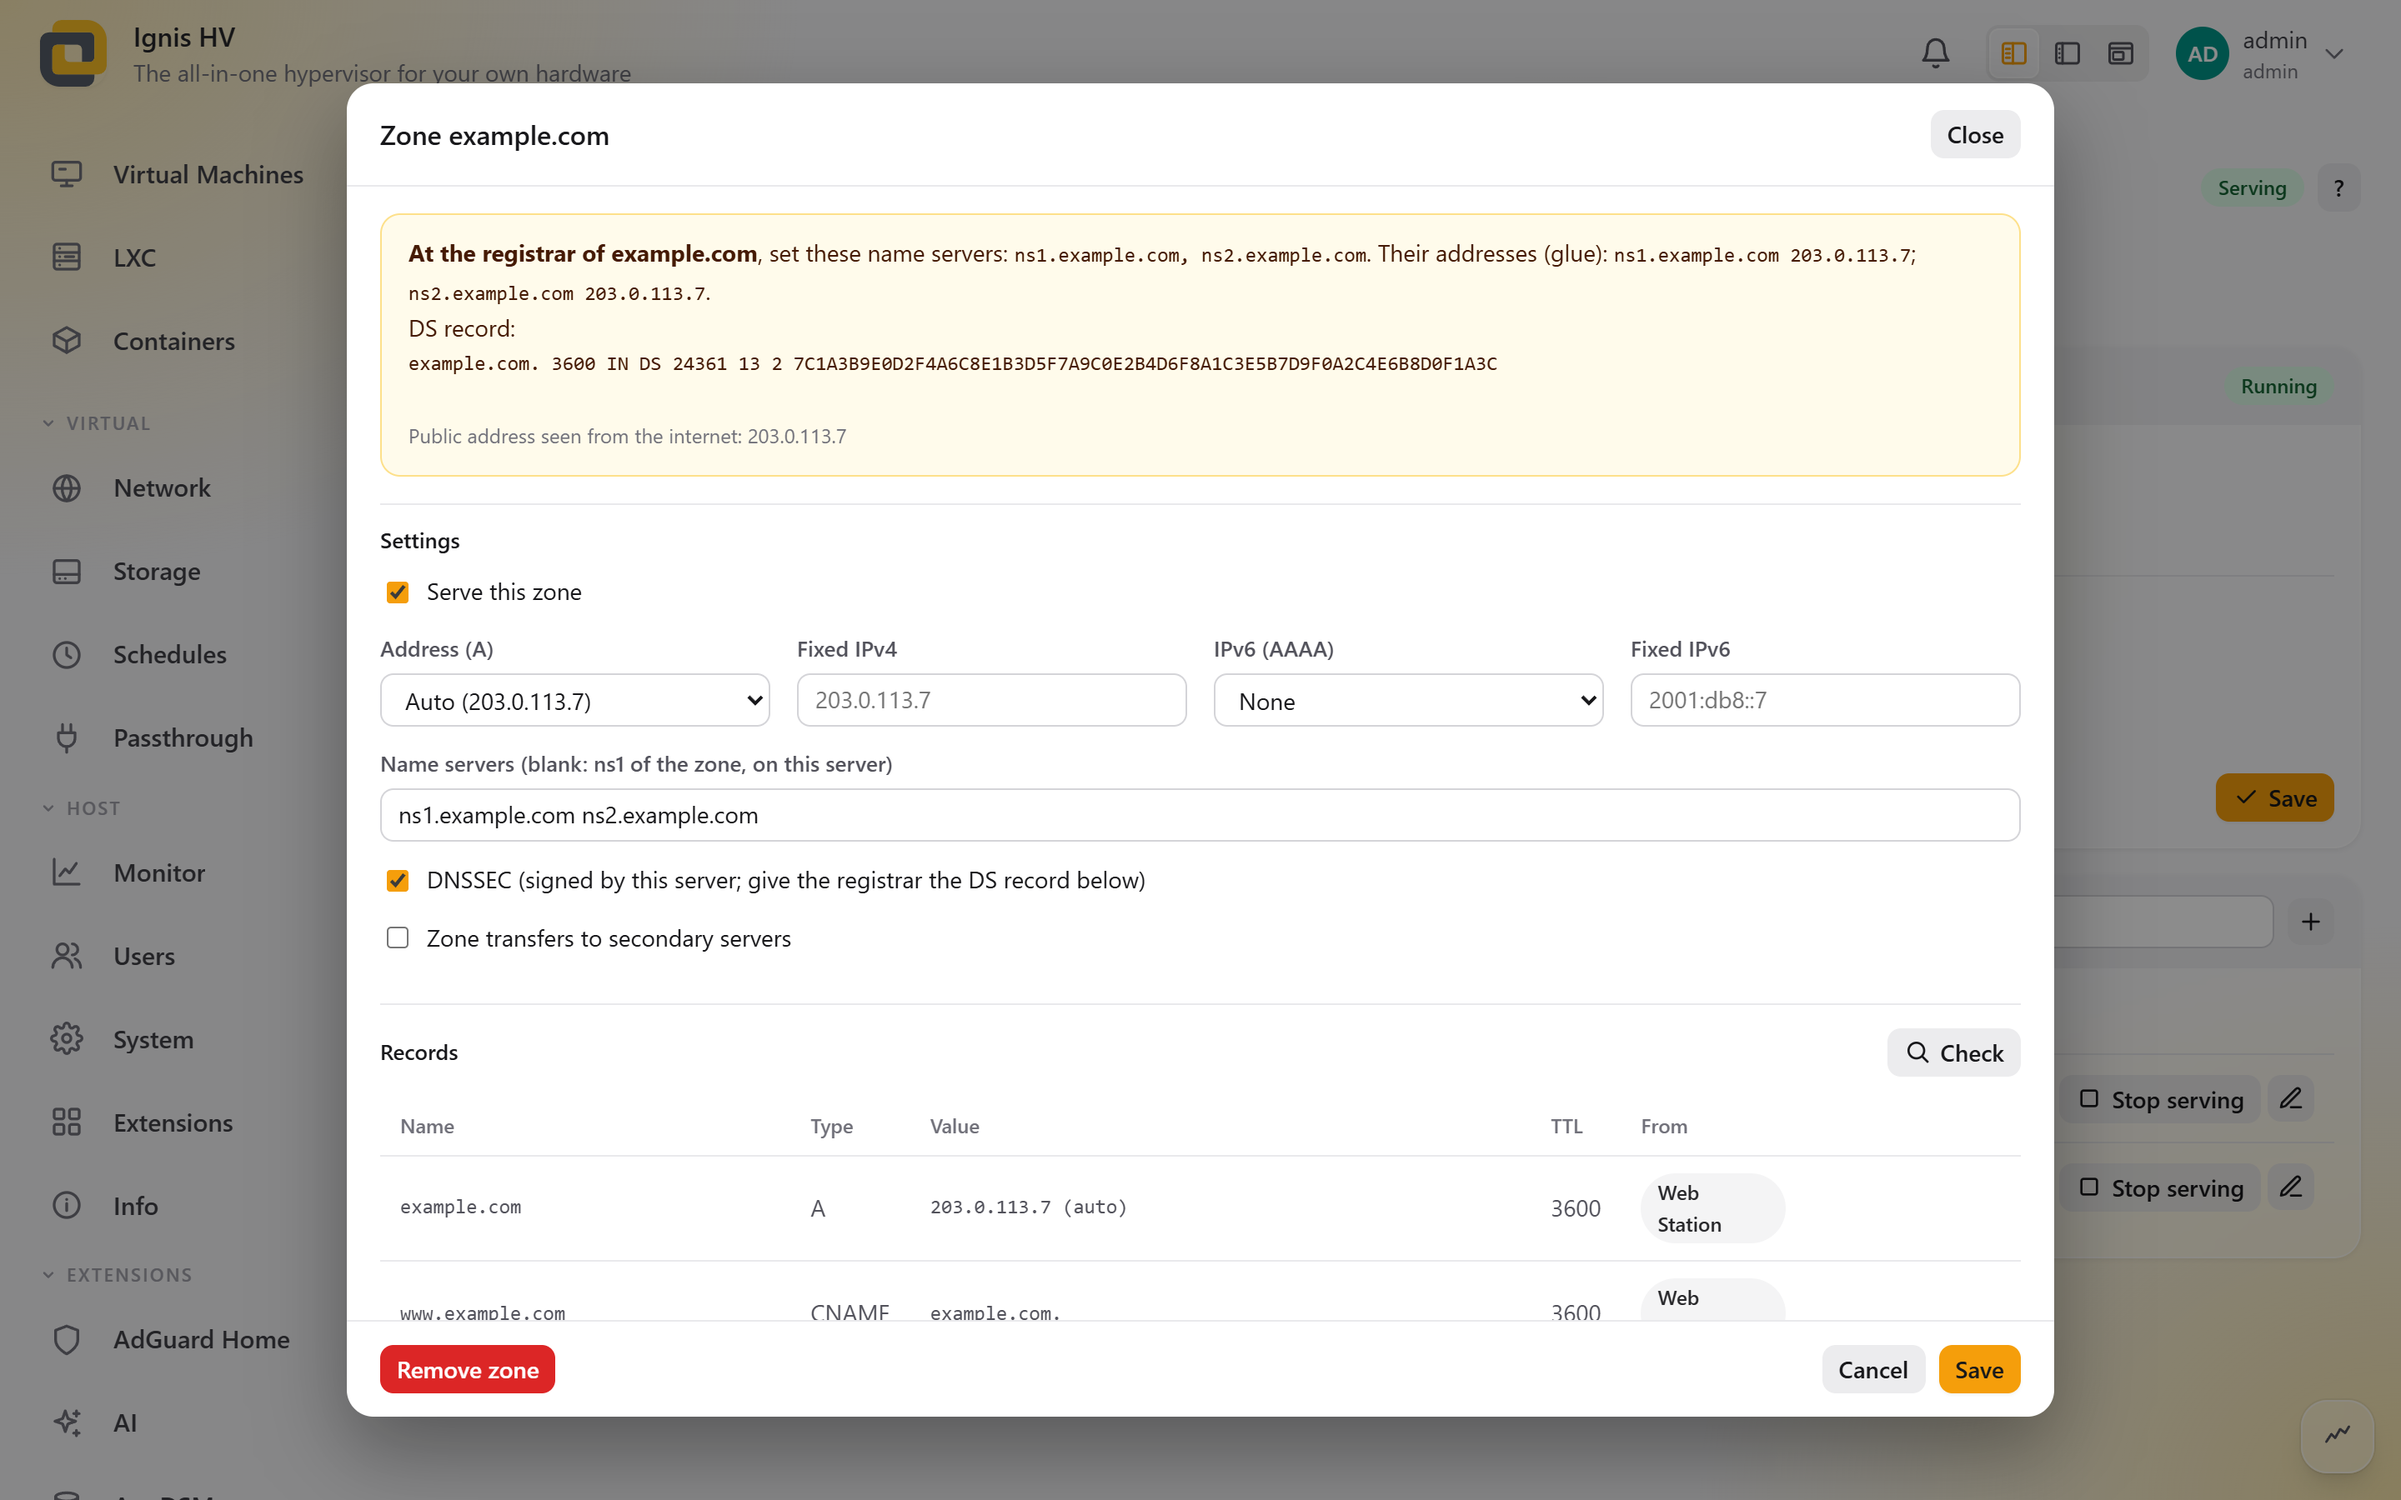
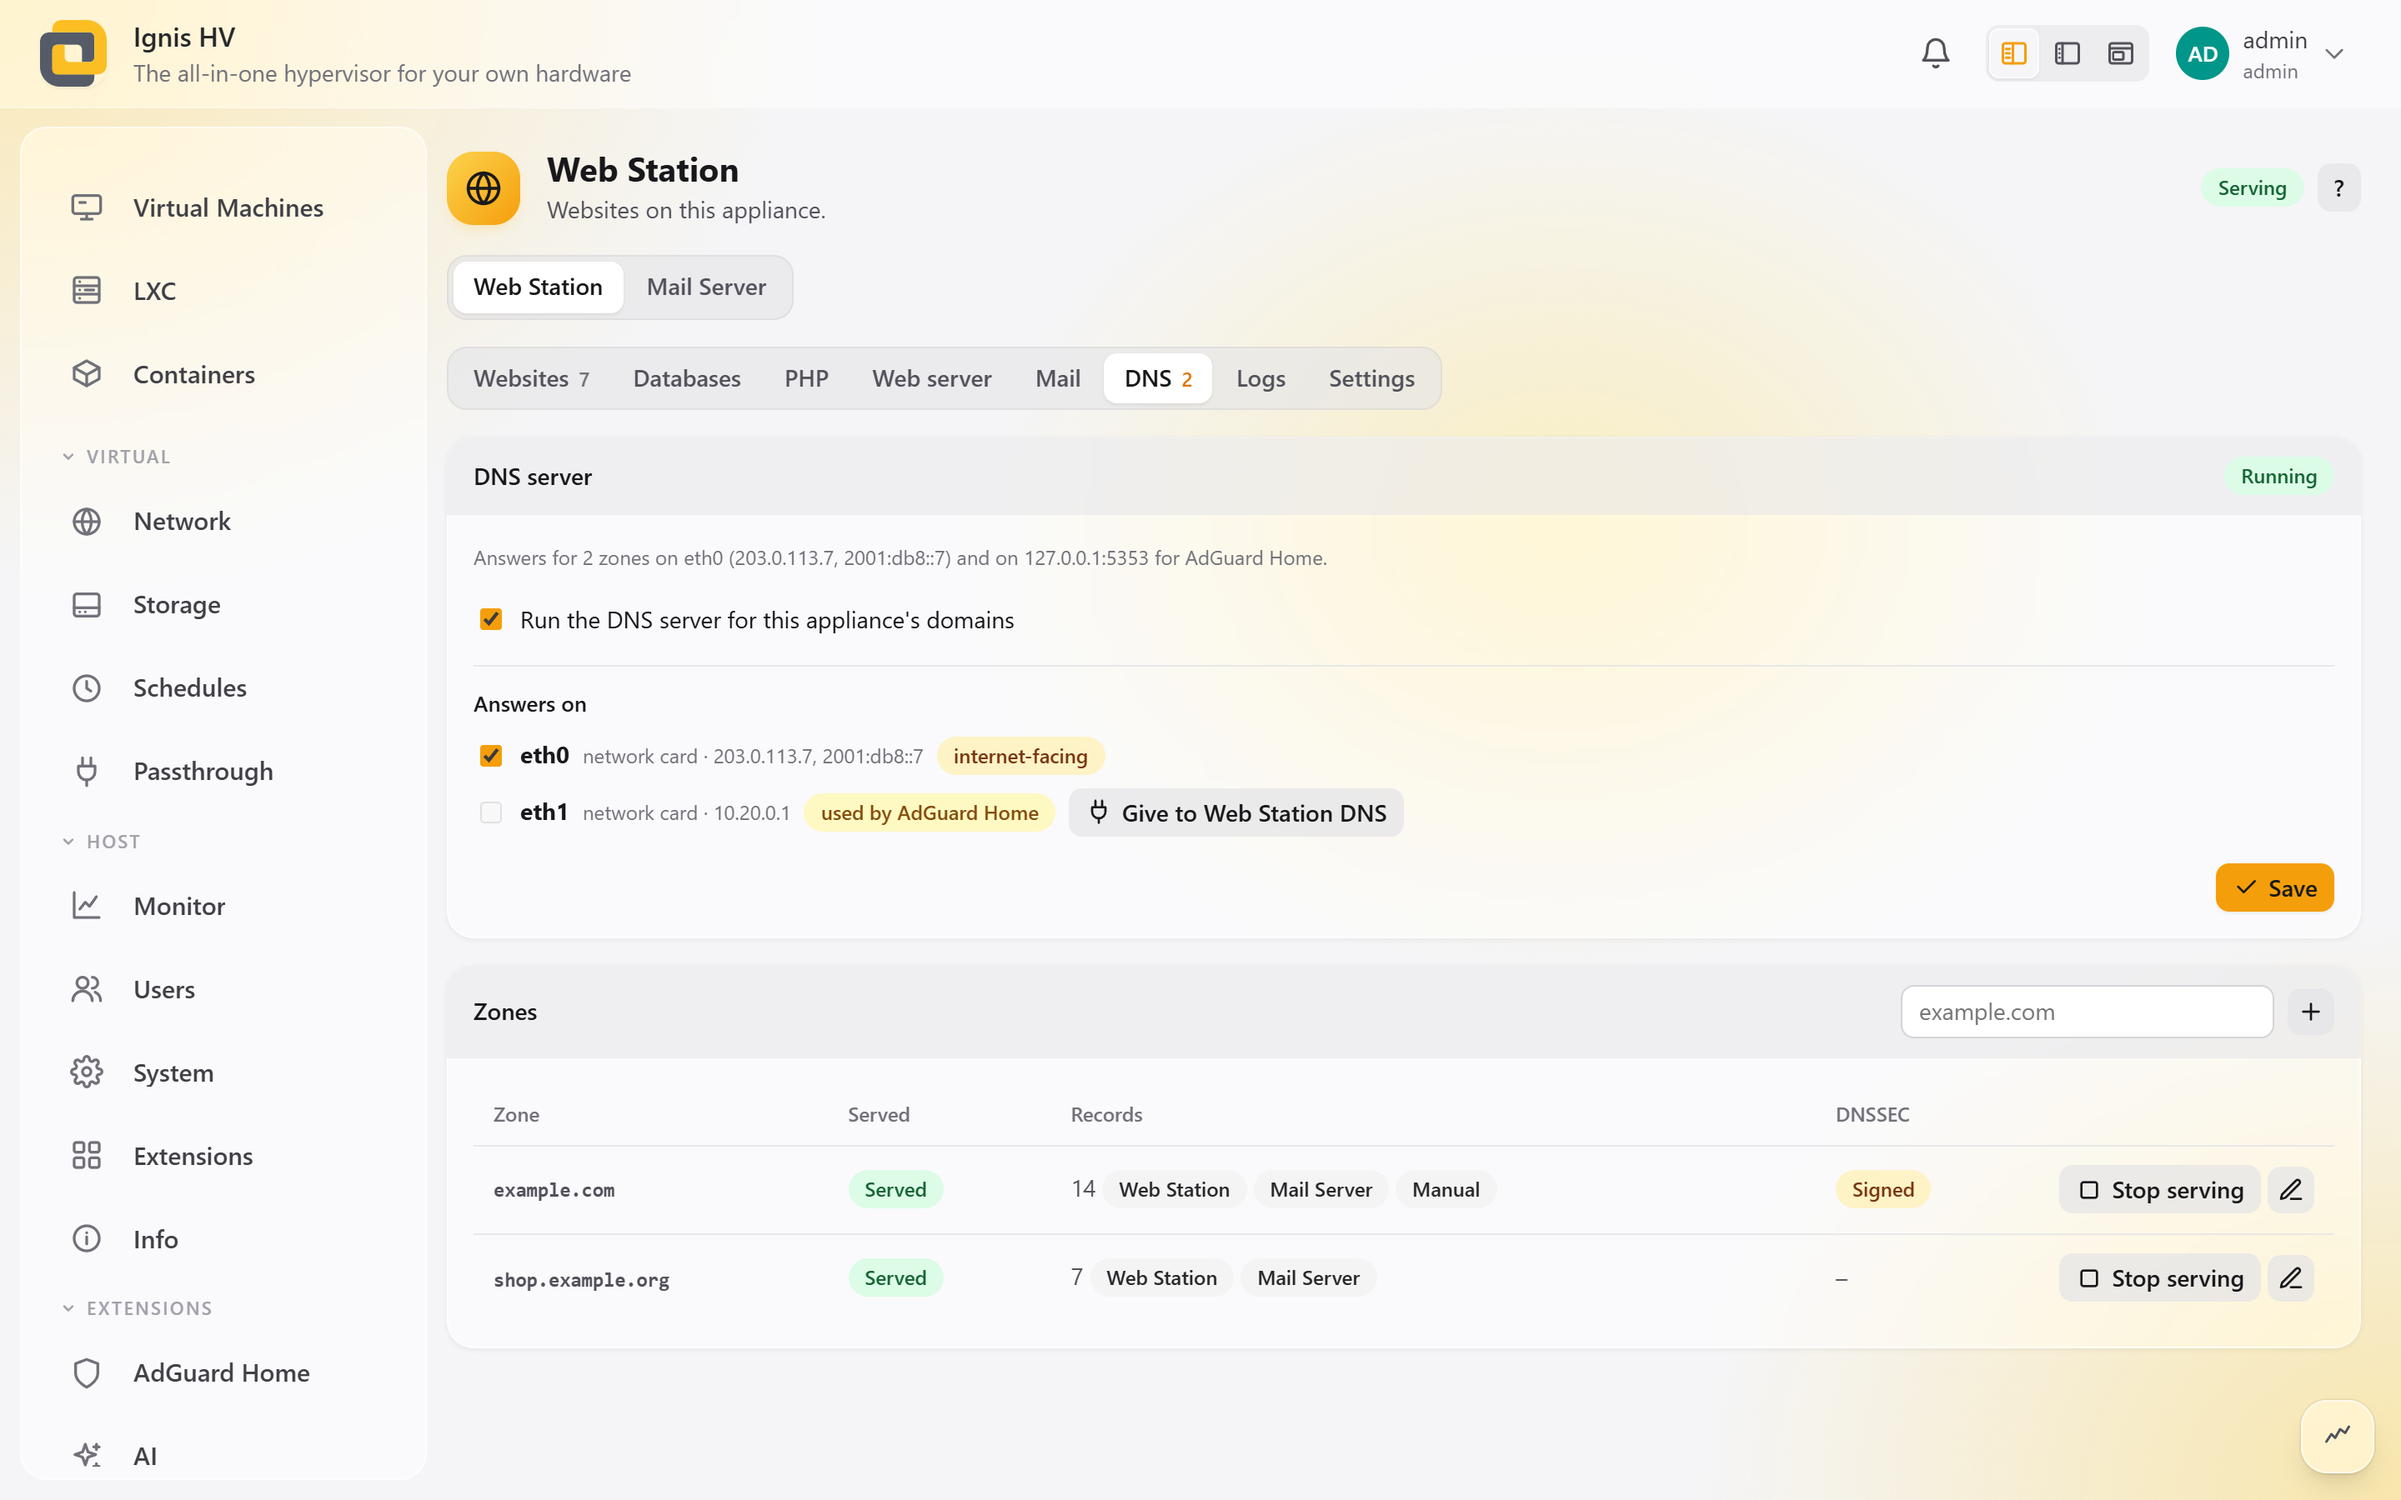
readme: shortlinks, time format, restart in the account menu, permissions; screenshots of 2026-11-18
Main pages, Extensions and Web & Mail (Web Station, Mail Server, DNS) retaken on the current interface.

diff --git a/README.md b/README.md
@@ -63,7 +63,7 @@ Ignis turns a PC or server into a small, dedicated host for virtual machines, co
 
 ### 🔐 Sign-in and security
 
-* **Users and roles**: admin, operator and viewer accounts, each limited to the machines and pages you choose
+* **Users and roles**: admin, operator and viewer accounts, each limited to the machines and pages you choose. Every permission says what it allows, and which of your apps it opens
 * **Two-factor sign-in**: with an authenticator app, recovery codes for emergencies and codes by email. A browser you trust can skip the code for 30 days
 * **Screen lock**: Ignis locks itself after the time you choose, and you unlock it with your password
 
@@ -133,14 +133,14 @@ Ignis keeps two things apart: **the system**, which each update replaces as a wh
 | **Schedules** | Timed start, shutdown, snapshot, backup, container and data check tasks, and the tasks your apps offer: website and mail backups, WordPress updates, downloads only at night, cameras on and off, and more |
 | **Passthrough** | Graphics cards, PCI and USB devices your machines can use |
 | **Monitor** | The host right now, its **History** over time, and **Storage Health** |
-| **Users** | Accounts, roles, and who sees which machines and pages |
-| **System** | The host's name, network, time, CPU (governor, turbo and clock limits) and fans, linked hosts, the smart home interface, email, services, updates and a terminal |
+| **Users** | Accounts, roles and their permissions, and who sees which machines and pages |
+| **System** | The host's name, network, time, CPU (governor, turbo and clock limits) and fans, linked hosts, the smart home interface, email, services, updates, a terminal, and **shortlinks**: addresses of your own such as `http://<ip>/download` that open a page straight away |
 | **Extensions** | Install, update, turn on, restart and remove apps, see which apps need each other and what each package includes |
 | **Info** | What this host supports, and a report to copy into a bug report |
 
 Every page has a **?** button with help for that page.
 
-Pick the look you like from the account menu: a light or dark mode, an accent colour, a wallpaper (northern lights, mountains, waves, dunes and more, or a picture of your own) and either the classic layout with a sidebar or a **desktop** where every page opens in a window of its own, with a taskbar. Settings are switches, and a short note at the bottom of the screen confirms what you saved.
+Pick the look you like from the account menu: a light or dark mode, an accent colour, a wallpaper (northern lights, mountains, waves, dunes and more, or a picture of your own) and either the classic layout with a sidebar or a **desktop** where every page opens in a window of its own, with a taskbar. Your language and a 12- or 24-hour clock are saved with your account. The account menu is also where you restart or shut down Ignis, if your account may. Settings are switches, and a short note at the bottom of the screen confirms what you saved. The address bar shows just Ignis's address, whatever page you are on.
 
 ### 📸 A look inside
 
@@ -174,7 +174,7 @@ Pick the look you like from the account menu: a light or dark mode, an accent co
     <td width="50%"><img alt="Drive: a folder of pictures as thumbnails" src="assets/screenshots/apps/drive.png"><br><sub><b>Drive</b>: your shared folders in the browser, with share links</sub></td>
   </tr>
   <tr>
-    <td width="50%"><img alt="Web Station: example.com with its docs and shop subdomains, each with its PHP version, certificate and buttons" src="assets/screenshots/apps/web.png"><br><sub><b>Web Station</b>: each website in a box with its controls, subdomains nested inside, PHP 8.3 to 8.5 and HTTPS per site</sub></td>
+    <td width="50%"><img alt="Web &amp; Mail on its Web Station tab: example.com with its docs and shop subdomains, each with its PHP version, certificate and buttons" src="assets/screenshots/apps/web.png"><br><sub><b>Web &amp; Mail</b>: Web Station's websites, each in a box with its controls, subdomains nested inside, PHP 8.3 to 8.5 and HTTPS per site; Mail Server is a tab away</sub></td>
     <td width="50%"><img alt="Game Servers: five servers with players and usage" src="assets/screenshots/apps/games.png"><br><sub><b>Game Servers</b>: Minecraft, Valheim and about 150 more, with console and backups</sub></td>
   </tr>
   <tr>
